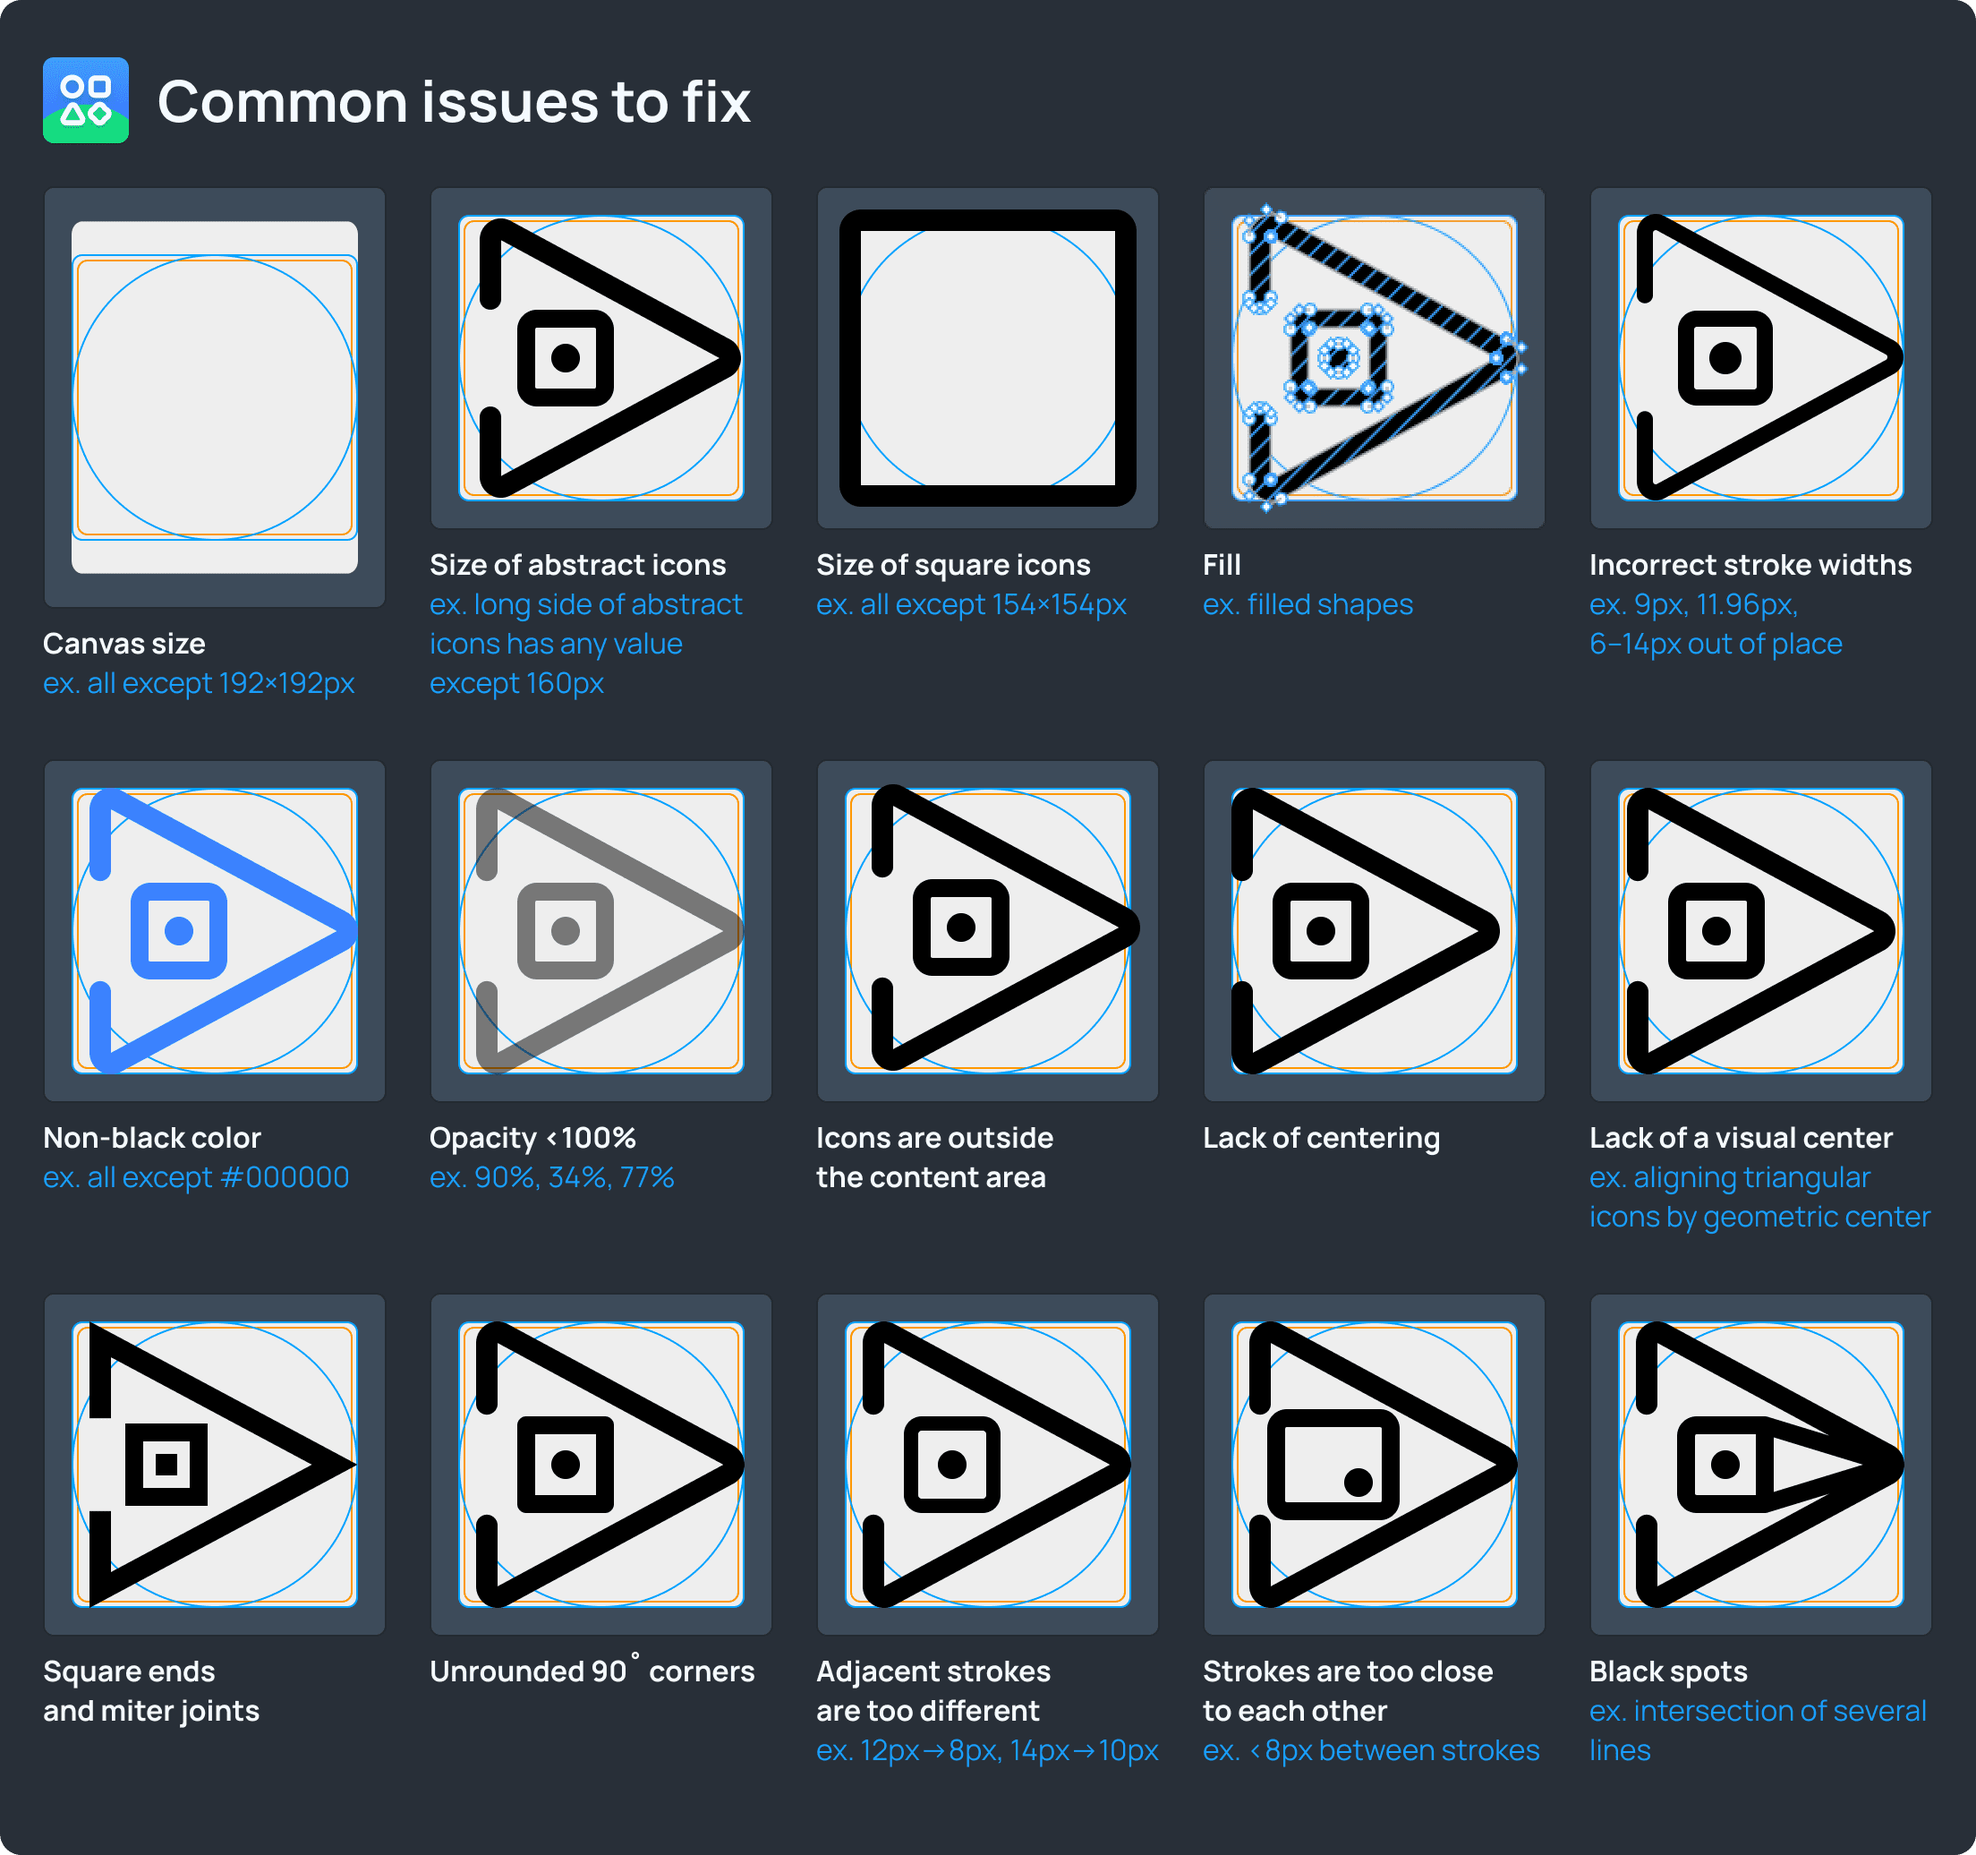
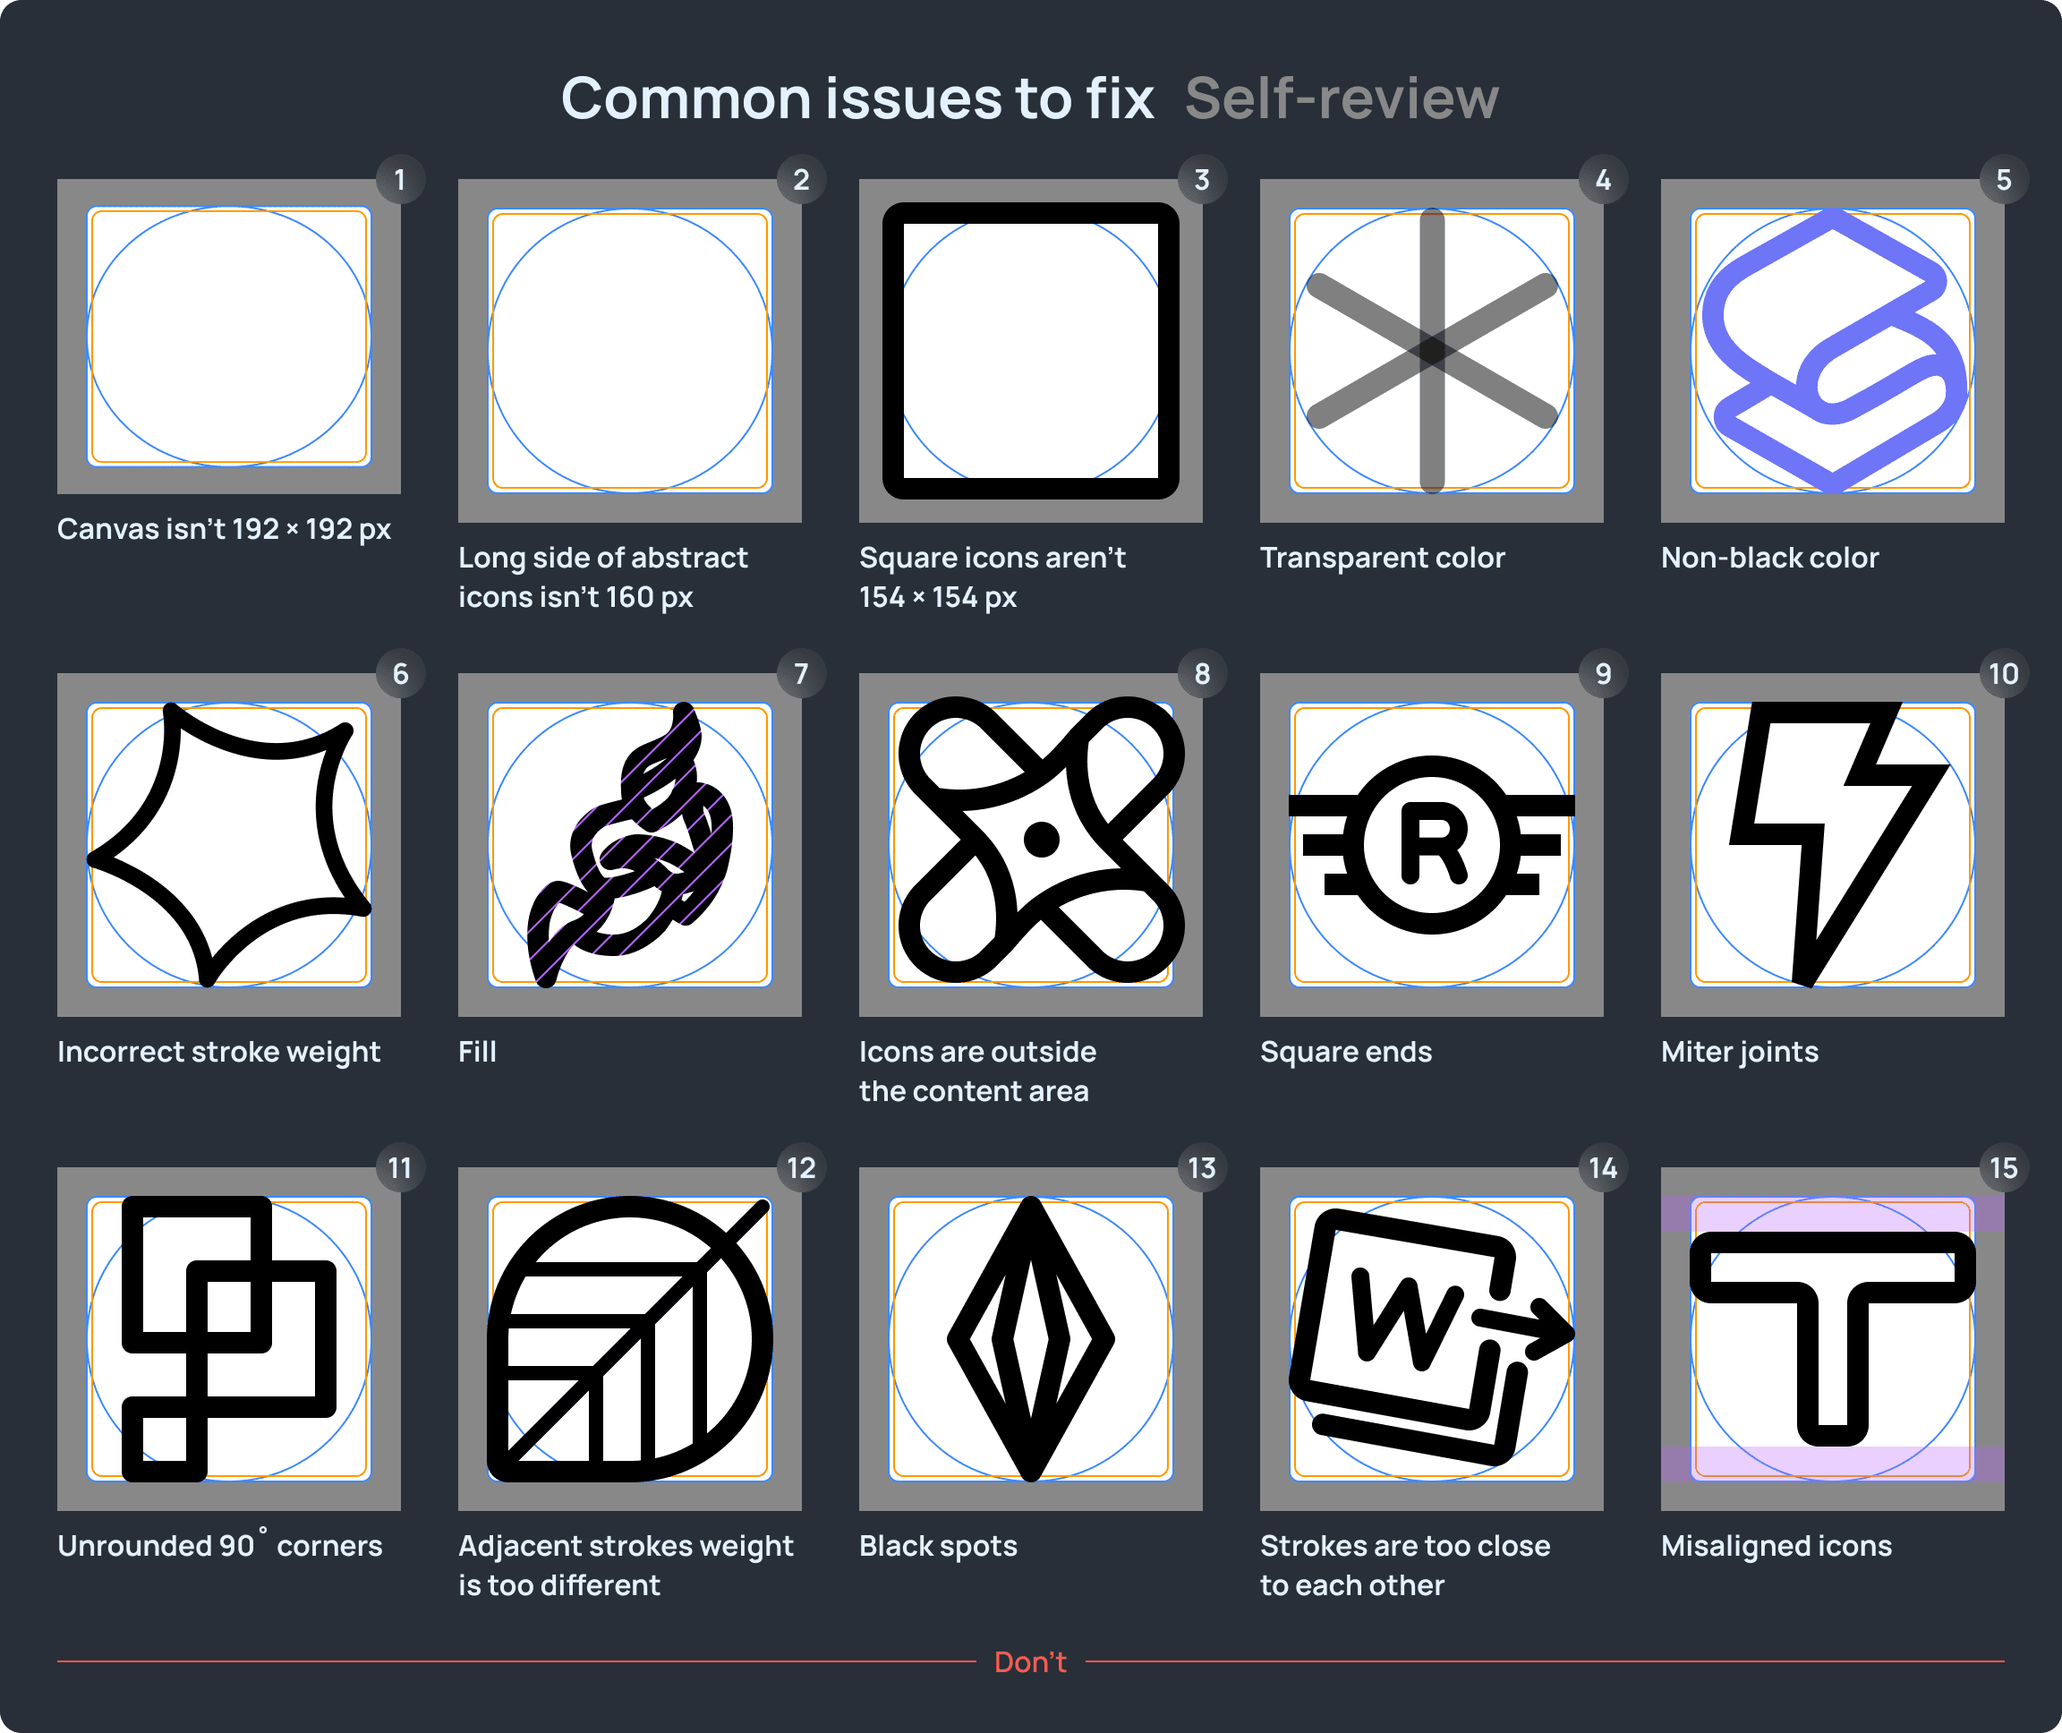
Common issues to fix v2 (#2678)
* Common issues to fix v2

* Update icon_checklist.md

* Update icon_checklist.md

diff --git a/.github/icon_checklist.md b/.github/icon_checklist.md
@@ -1,5 +1,7 @@
-Thanks for your contribution!
+Hey!
 
-We hope that you followed [the Lawnicons guidelines](https://github.com/LawnchairLauncher/lawnicons/blob/develop/CONTRIBUTING.md) and made sure that Lawnicons is built correctly. Please fix common issues if there are any in your icons.
+Thanks for your contribution. We hope that you followed [the Lawnicons guidelines](https://github.com/LawnchairLauncher/lawnicons/blob/develop/CONTRIBUTING.md) and made sure that Lawnicons is built correctly.
+
+Please fix common issues from the list below if there are any in your icons. Reviews are based on this list, so if any issues remain, we'll point out the numbers.
 
 ![](https://raw.githubusercontent.com/LawnchairLauncher/lawnicons/refs/heads/develop/docs/images/common-issues-to-fix.png)
